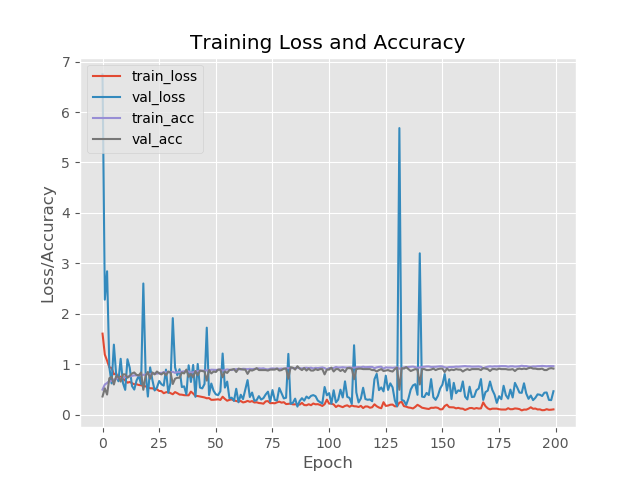
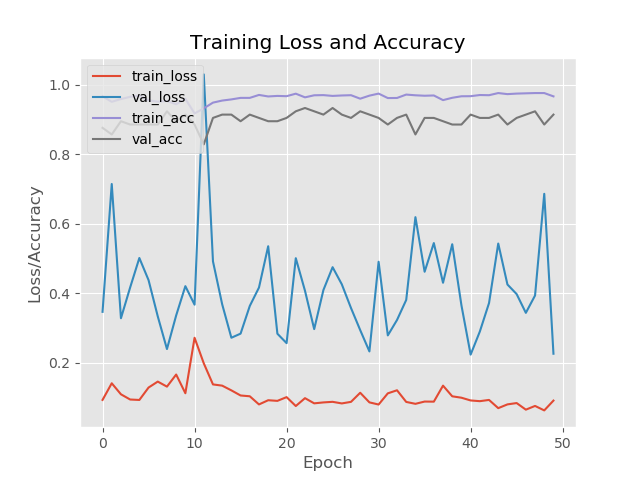
a

diff --git a/CNN_training/src/training_script.py b/CNN_training/src/training_script.py
@@ -7,7 +7,7 @@ from keras.utils import to_categorical
 from CNN_training.src.Dataset import Dataset
 from CNN_training.nnetwork.smallervggnet import SmallerVGGNet
 import tensorflow as tf
-
+import keras as k
 import matplotlib.pyplot as plt
 # set the matplotlib backend so figures can be saved in the background
 import matplotlib
@@ -16,10 +16,11 @@ matplotlib.use("Agg")
 
 
 class Trainer:
-    EPOCHS = 200
+    EPOCHS = 50
     INIT_LR = 1e-3
     BS = 32
     model = 0
+    initial_epoch = 0
 
     def __init__(self, dataset):
         print("[LOG] Creating model...")
@@ -38,7 +39,11 @@ class Trainer:
         print("[LOG] Ready model")
 
     def load_(self, model_path):
-        self.model = tf.keras.models.load_model(model_path)
+        self.model = k.models.load_model(model_path)
+        file = open("ep.txt", "r")
+        self.initial_epoch = int(file.read())
+        file.close()
+        print(self.initial_epoch)
 
     def training_augmented(self):
         aug = ImageDataGenerator(rotation_range=25, width_shift_range=0.1,
@@ -50,12 +55,21 @@ class Trainer:
             aug.flow(self.dataset.data, self.dataset.labels, batch_size=self.BS),
             validation_data=(self.dataset.validation_data, self.dataset.val_labels),
             steps_per_epoch=len(self.dataset.data) // self.BS,
-            epochs=self.EPOCHS
+            epochs=self.initial_epoch + 50, initial_epoch=self.initial_epoch
         )
 
+        # TODO: if lepszy od modelu to zapisz
+        print("[LOG] compare")
+
         print("[LOG] saving")
+
+        file = open("ep.txt", "w")
+        file.write(str(self.initial_epoch + self.EPOCHS))
+        file.close()
+
         self.model.save("AUG.model")
         self.plot_it(net)
+
         print("[LOG] Ploted")
 
     def standard_training(self):
@@ -102,5 +116,6 @@ VAL_PATH = "E:\IT\CNN\_val_set"
 dataSet = Dataset(DATASET_PATH, LABELS_PATH, VAL_PATH)
 
 trainer = Trainer(dataSet)
-trainer.create_model()
+# trainer.create_model()
+trainer.load_("AUG.model")
 trainer.training_augmented()
